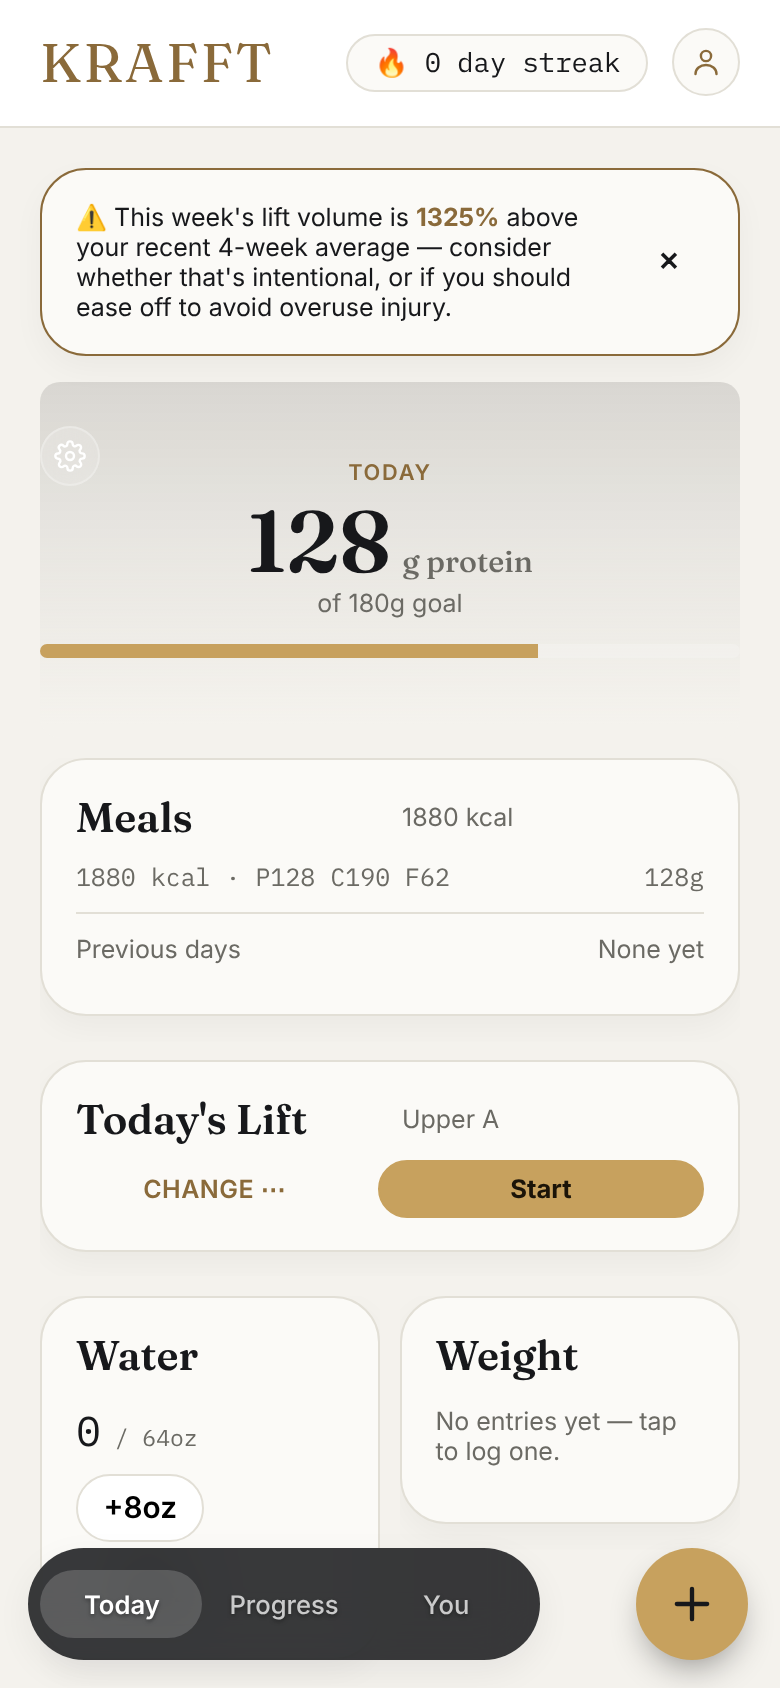
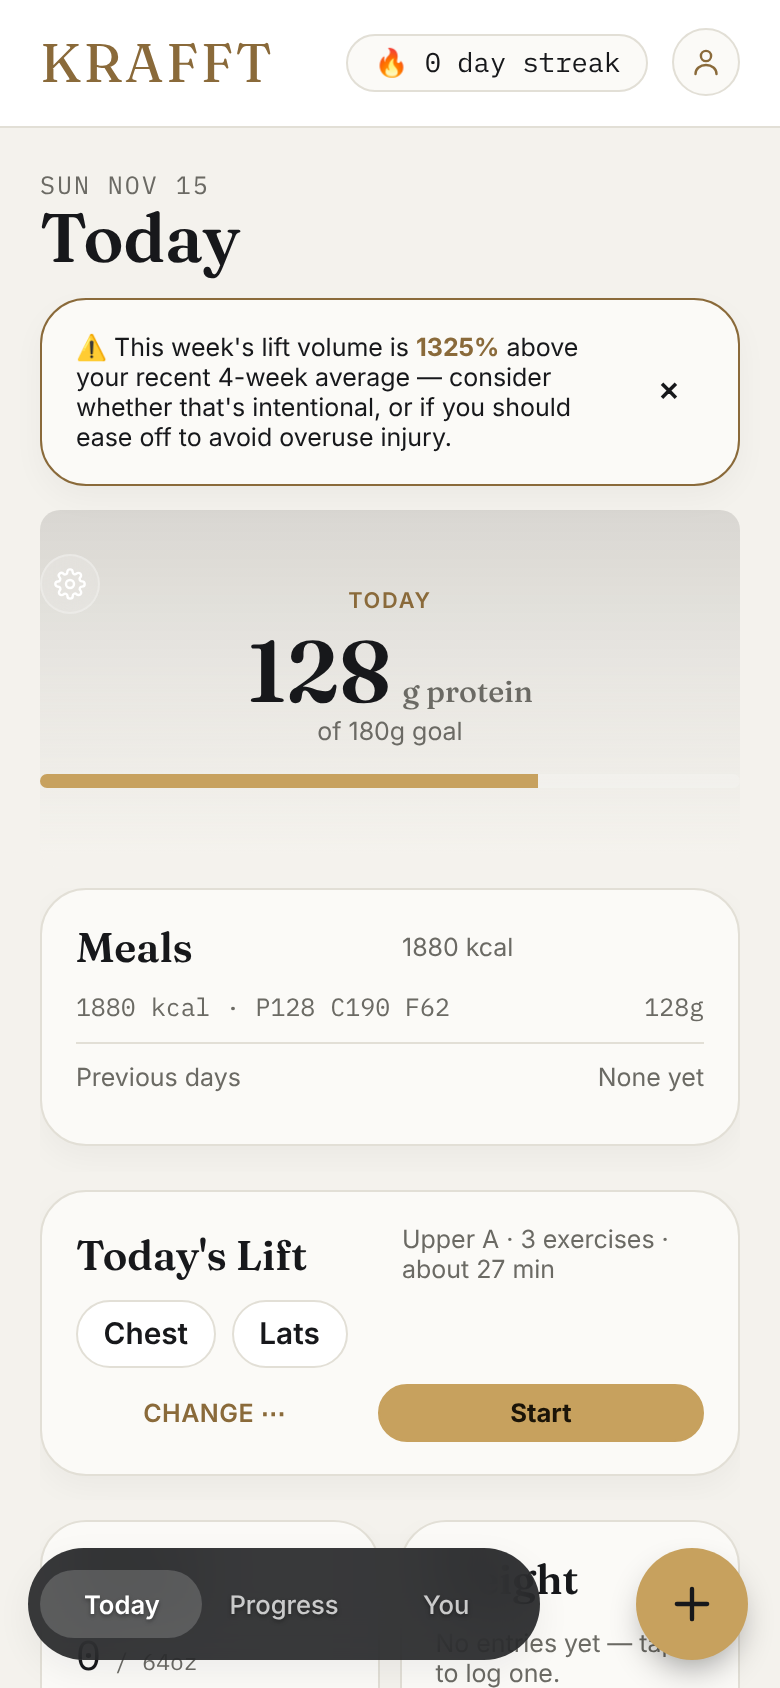
Fidelity pass: Section 1 (Today) - date header + Today's Lift card detail
The Today tab had no date/title header at all (mockup: mono-caps date +
Fraunces "Today"), and the Today's Lift card's program-state sub-label
showed only the day name ("Upper A") - no exercise count, no estimated
length, no muscle chips, all present in the mockup. Added all three,
computed from the active block's actual day data (not hardcoded) -
estimated length is exercises x9min, muscle chips are the day's own
exercise.muscle values, deduped and capped at 3.

Flagged, not changed: the mockup also shows calories/carbs/fat inline
under protein in the same hero card. This app's protein hero is a
shared, independently-shipped nutrition component (an earlier, separate
batch) that already surfaces full macros via its own tap-to-expand
sheet rather than inline. Restructuring it is a bigger product decision
than a training-screen fix, so it's reported rather than changed.

Claude-Session: https://claude.ai/code/session_015L9cyNh1v2vMK9ZcFbmR4a

diff --git a/index.html b/index.html
@@ -4913,6 +4913,7 @@ function todaysLiftSummaryHtml() {
   const restToday = !!activeBlock && todaysDayIndex == null; // explicitly skipped/moved away this week — never mutates the block itself
   const hasPlanned = !!((activeBlock && !restToday) || state.plan);
   const todaysEntry = overrides[localDateStr()];
+  const dayExercises = activeBlock && todaysDayIndex != null ? activeBlock.blockDays[todaysDayIndex]?.exercises : null;
   let label, sub;
   if (!ctx.empty && !ctx.ended) {
     label = 'Continue';
@@ -4926,17 +4927,24 @@ function todaysLiftSummaryHtml() {
   } else if (hasPlanned) {
     label = 'Start';
     sub = todaysFocusLabel() + (todaysEntry?.shortened ? ' · Shortened' : '');
+    // Mockup's Today's Lift card names the exercise count and an estimated
+    // length alongside the day label - this used to just show the label.
+    if (dayExercises?.length) sub += ` · ${dayExercises.length} exercise${dayExercises.length === 1 ? '' : 's'} · about ${Math.round(dayExercises.length * 9)} min`;
   } else {
     label = 'Choose a workout';
     sub = 'Nothing planned for today';
   }
   const canReschedule = ctx.empty && hasPlanned && !!activeBlock;
+  const dayMuscleChips = label === 'Start' && dayExercises?.length
+    ? [...new Set(dayExercises.map((e) => e.muscle).filter(Boolean))].slice(0, 3)
+    : [];
   return `
     <div class="card">
       <div class="row" style="justify-content:space-between;align-items:center;border-top:none;padding-top:0;">
         <h3 style="margin:0;">Today's Lift</h3>
         <span class="muted small">${esc(sub)}</span>
       </div>
+      ${dayMuscleChips.length ? `<div class="chip-row" style="margin-top:0.5rem;">${dayMuscleChips.map((m) => `<span class="chip" style="cursor:default;">${esc(m.charAt(0).toUpperCase() + m.slice(1))}</span>`).join('')}</div>` : ''}
       ${todaysLiftChangeMenuOpen ? `
         <div style="margin-top:0.5rem;border-top:1px solid var(--border);padding-top:0.5rem;">
           <button class="btn btn-sm btn-ghost" style="width:100%;text-align:left;" data-today-change="move_tomorrow">Move to tomorrow</button>
@@ -5745,7 +5753,10 @@ function renderDashboard() {
   const editingHere = editingScreenKey === 'nutrition_home';
 
   const panel = $('#panel-dashboard');
+  const todayHeaderDate = new Date(`${today}T00:00:00`).toLocaleDateString('en-US', { weekday: 'short', month: 'short', day: 'numeric' }).replace(',', '');
   panel.innerHTML = `
+    <div class="mono small" style="text-transform:uppercase;letter-spacing:0.08em;color:var(--text-dim);margin-bottom:0.1rem;">${esc(todayHeaderDate)}</div>
+    <div class="pagetitle" style="margin:0 0 0.6rem;">Today</div>
     ${achievementUnlockBannerHtml()}
     ${showSpikeWarning ? `
     <div class="card pr-banner">
